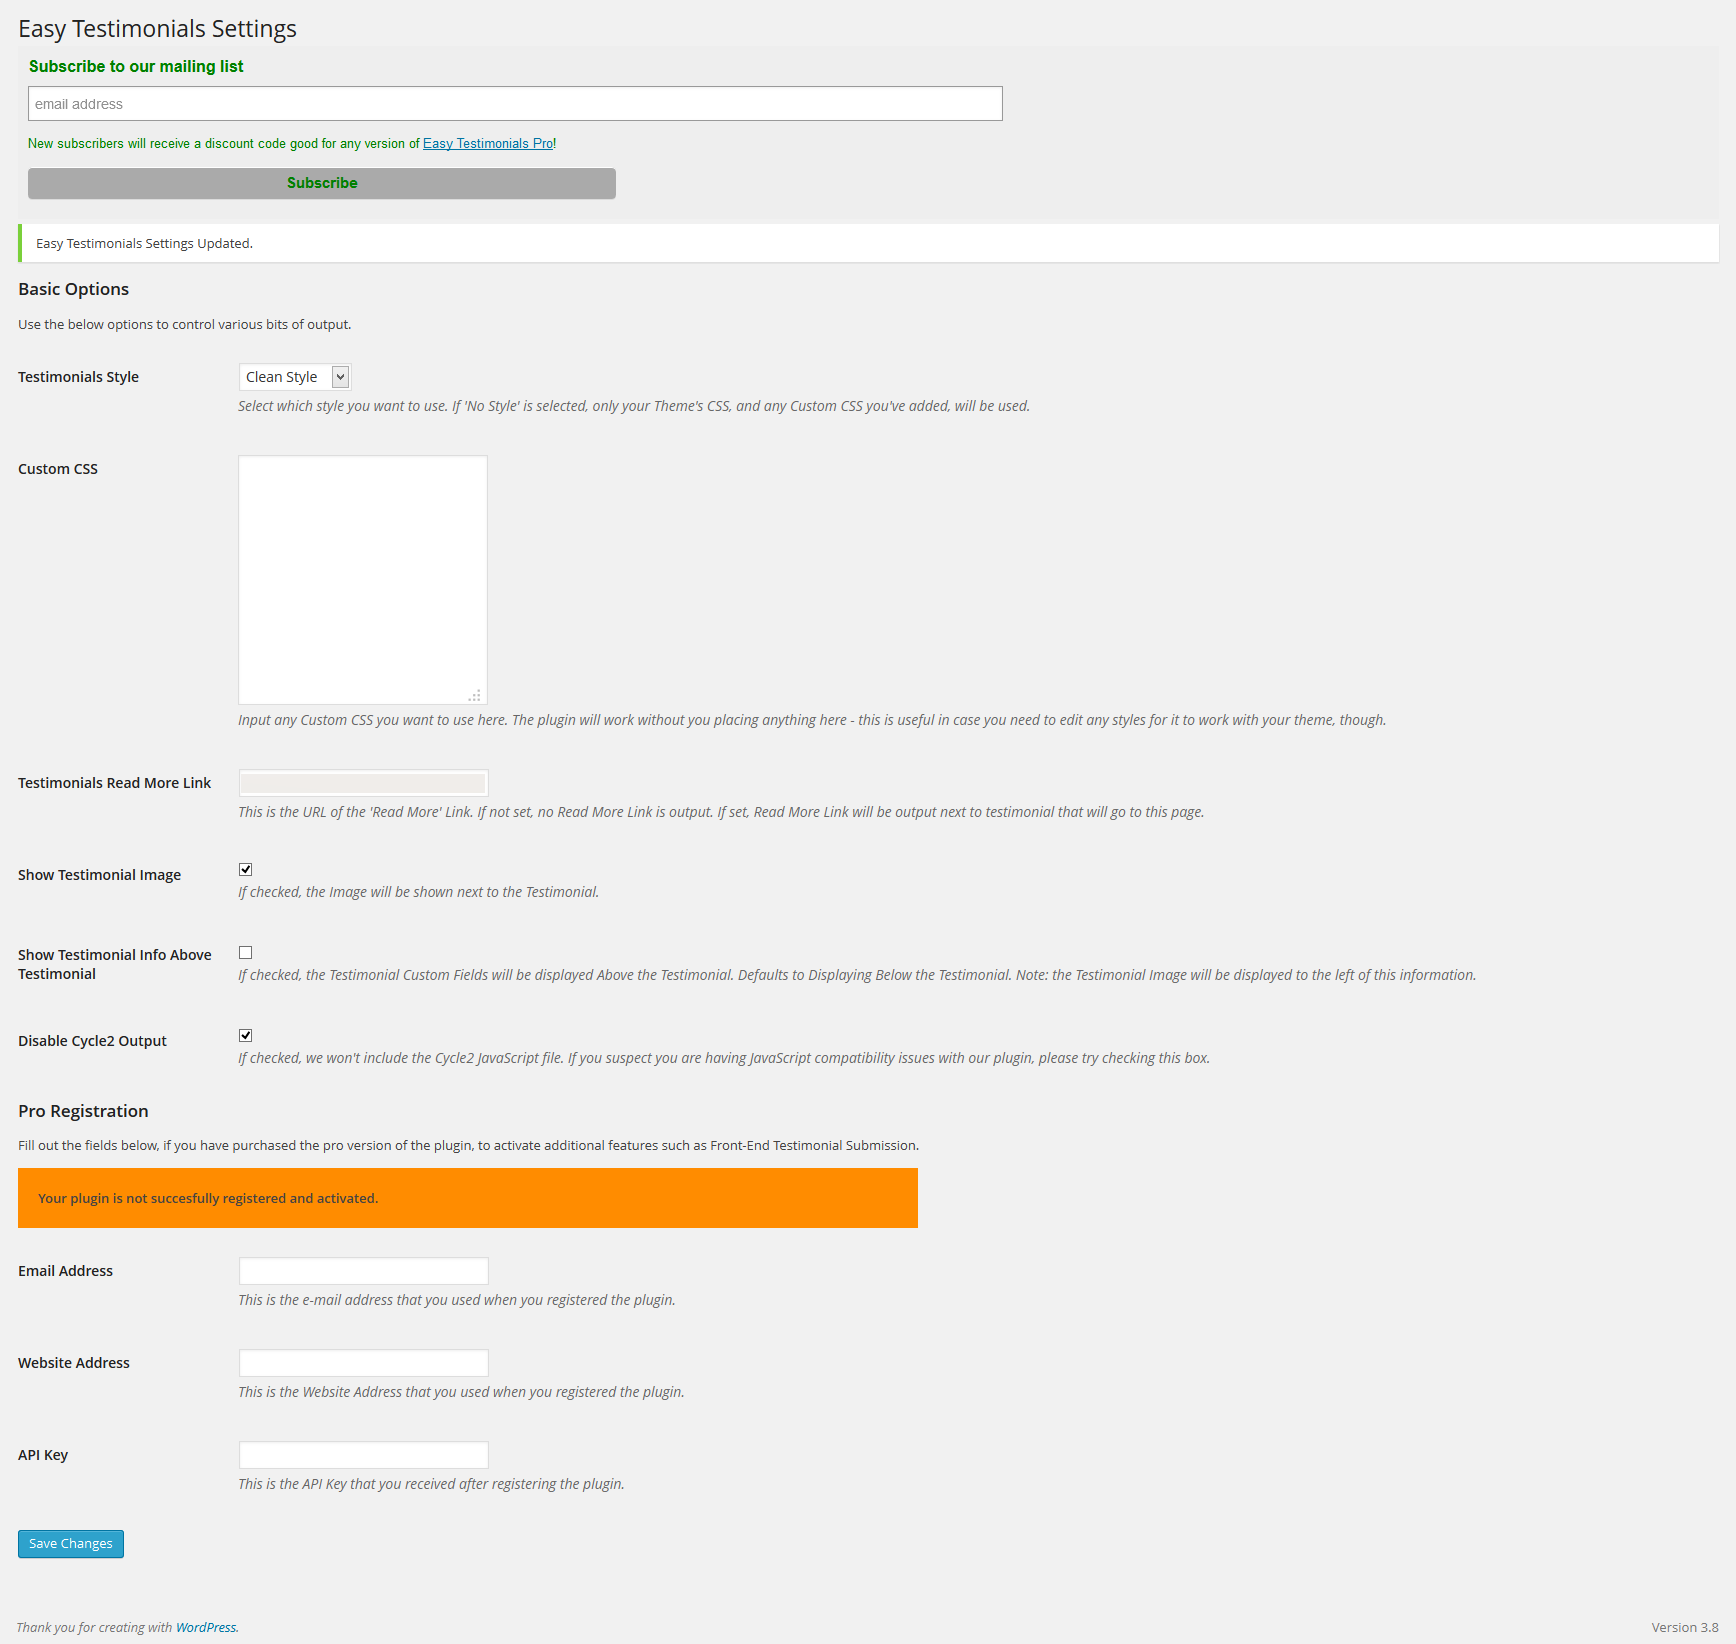
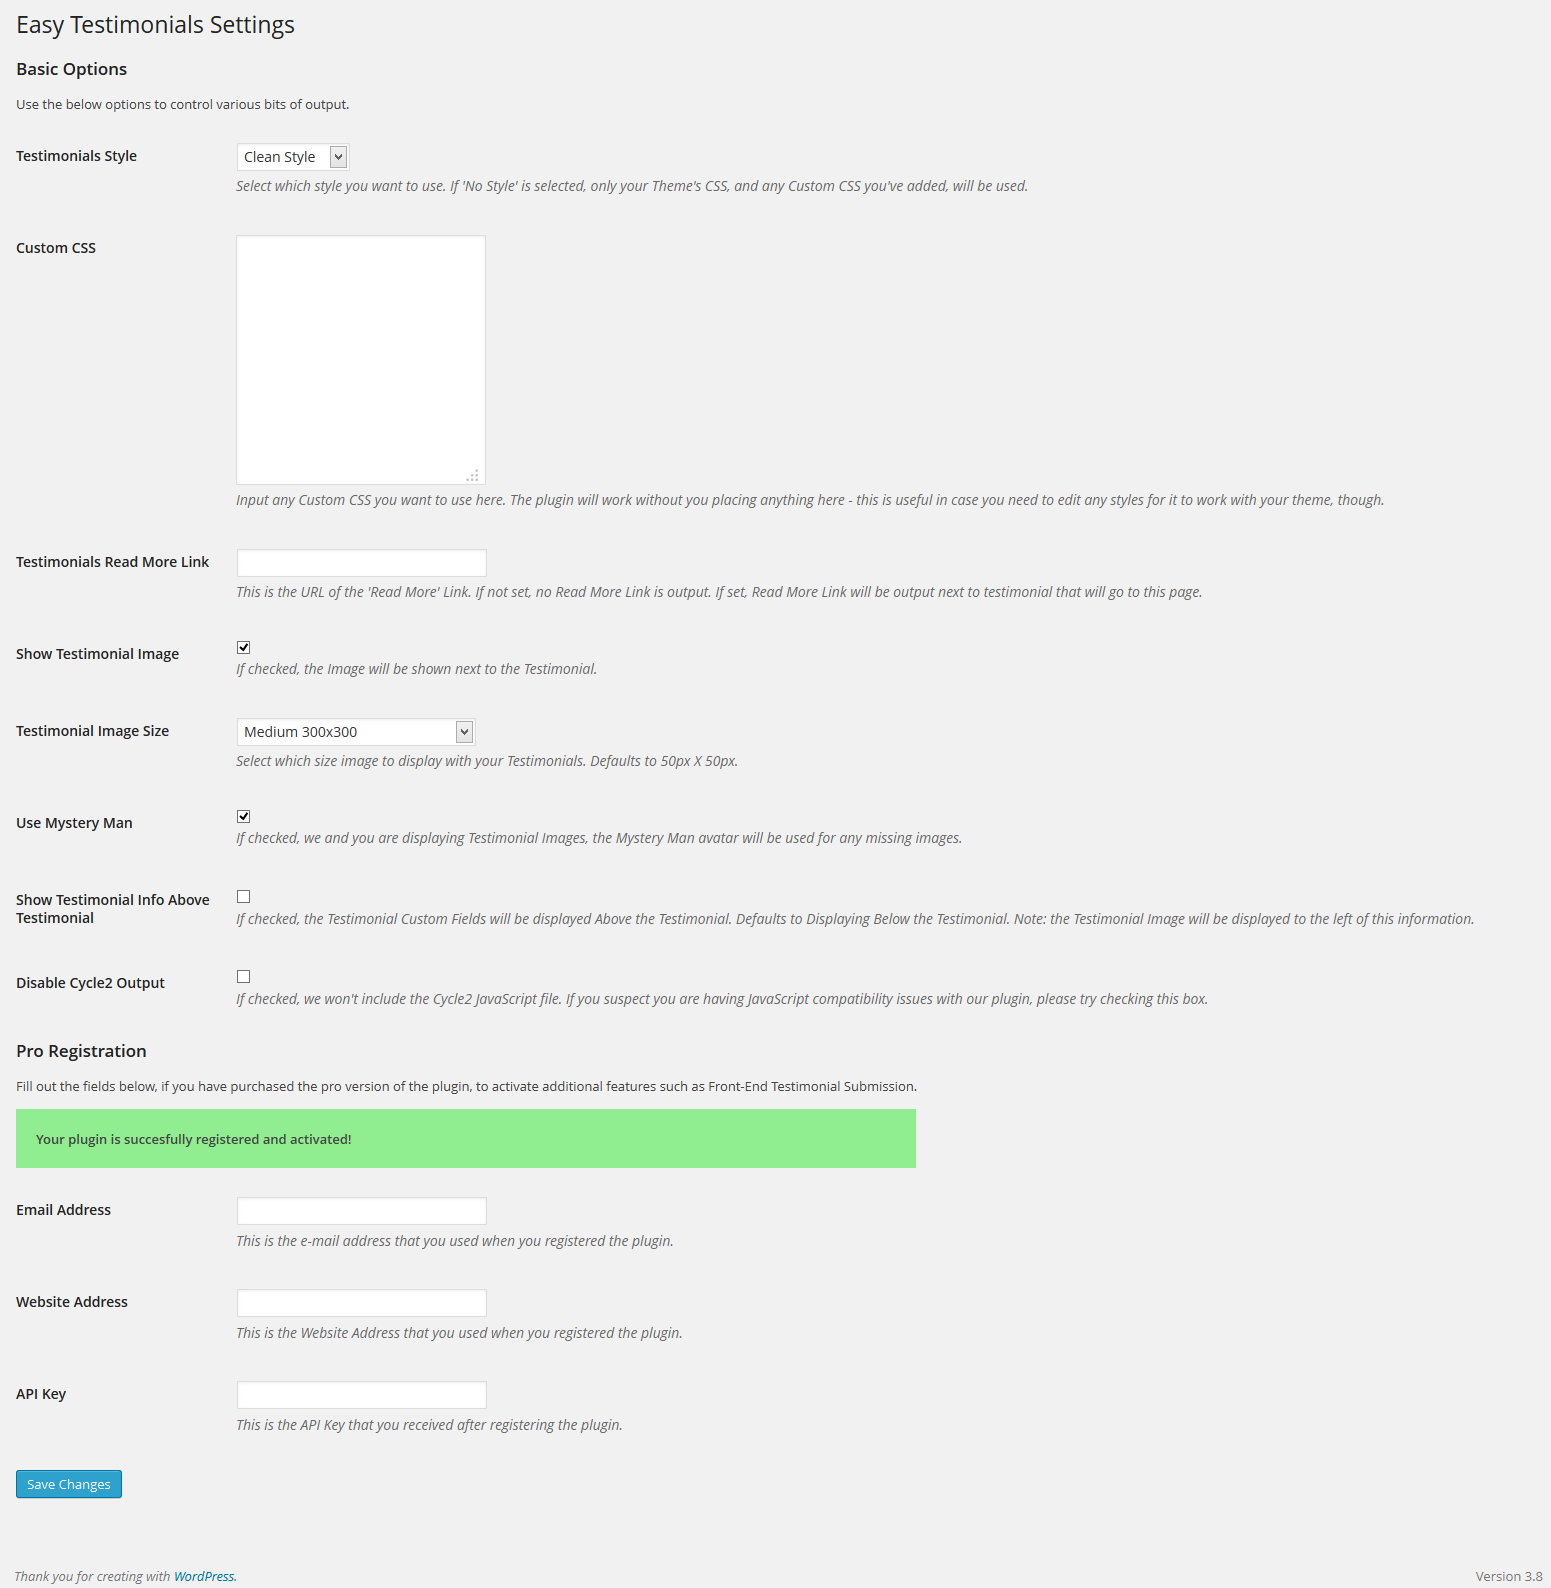
Adds ability to control the size of the Testimonial image
git-svn-id: https://plugins.svn.wordpress.org/easy-testimonials/trunk@835733 b8457f37-d9ea-0310-8a92-e5e31aec5664

diff --git a/include/css/clean_style.css b/include/css/clean_style.css
@@ -1,8 +1,8 @@
 /* CSS */
 blockquote.easy_testimonial {
     margin: 10px auto;
-    padding: 10px 10px 10px 80px;
-    position: relative;
+    min-height: 80px;
+    padding: 10px;
 }
 
 blockquote.easy_testimonial p{
@@ -18,15 +18,13 @@ blockquote.easy_testimonial p a:hover{
 blockquote.easy_testimonial cite{
 }
 
-.randomTestimonialWidget blockquote.easy_testimonial {
-    margin: 5px auto;
-    padding-left: 64px;
-}
-
 .attachment-easy_testimonial_thumb{
-  display: block;
   width: 60px;
   height: 60px;
+}
+
+.wp-post-image{
+  display: block;
   margin: 1em auto;
   background-size: cover;
   background-repeat: no-repeat;
@@ -43,11 +41,9 @@ blockquote.easy_testimonial cite{
     width: 44px;
 }
 
-body blockquote.easy_testimonial .attachment-easy_testimonial_thumb {
-    left: 0;
-    margin: 0 15px 10px 0;
-    position: absolute;
-    width: 60px;
+body blockquote.easy_testimonial .wp-post-image{
+    float: left;
+    margin: 0 10px 10px 0;
 }
 
 .cycle-slideshow{

diff --git a/include/css/style.css b/include/css/style.css
@@ -1,10 +1,11 @@
 /* CSS */
-blockquote.easy_testimonial{
+blockquote.easy_testimonial {
+    margin: 10px auto;
+    min-height: 80px;
     padding: 10px;
-	margin: 10px auto;
 }
 
-blockquote.easy_testimonial .attachment-easy_testimonial_thumb{
+blockquote.easy_testimonial .wp-post-image{
     border-radius: 5px 5px 5px 5px;
     float: left;
     margin: 0 10px 10px 0;

diff --git a/include/css/light_style.css b/include/css/light_style.css
@@ -8,7 +8,7 @@ blockquote.easy_testimonial{
 	margin: 10px auto;
 }
 
-blockquote.easy_testimonial .attachment-easy_testimonial_thumb{
+blockquote.easy_testimonial .wp-post-image{
 	border: 1px solid #CCCCCC;
     border-radius: 5px 5px 5px 5px;
     float: left;

diff --git a/include/css/dark_style.css b/include/css/dark_style.css
@@ -8,7 +8,7 @@ blockquote.easy_testimonial{
 	margin: 10px auto;
 }
 
-blockquote.easy_testimonial .attachment-easy_testimonial_thumb{
+blockquote.easy_testimonial .wp-post-image{
 	border: 1px solid black;
     border-radius: 5px 5px 5px 5px;
     float: left;

diff --git a/easy-testimonials.php b/easy-testimonials.php
@@ -4,7 +4,7 @@ Plugin Name: Easy Testimonials
 Plugin URI: http://easy-testimonials.com
 Description: Easy Testimonials - Provides custom post type, shortcode, sidebar widget, and other functionality for testimonials.
 Author: Illuminati Karate
-Version: 1.5.7
+Version: 1.5.8
 Author URI: http://illuminatikarate.com
 
 This file is part of Easy Testimonials.
@@ -231,6 +231,42 @@ function easy_testimonials_setup_testimonials(){
 	
 	add_image_size( 'easy_testimonial_thumb', 50, 50, true );
 }
+
+//from http://codex.wordpress.org/Function_Reference/get_intermediate_image_sizes
+function easy_t_output_image_options(){
+	global $_wp_additional_image_sizes;
+	$sizes = array();
+	foreach( get_intermediate_image_sizes() as $s ){
+		$sizes[ $s ] = array( 0, 0 );
+		if( in_array( $s, array( 'thumbnail', 'medium', 'large' ) ) ){
+			$sizes[ $s ][0] = get_option( $s . '_size_w' );
+			$sizes[ $s ][1] = get_option( $s . '_size_h' );
+		}else{
+			if( isset( $_wp_additional_image_sizes ) && isset( $_wp_additional_image_sizes[ $s ] ) )
+				$sizes[ $s ] = array( $_wp_additional_image_sizes[ $s ]['width'], $_wp_additional_image_sizes[ $s ]['height'], );
+		}
+	}
+
+	$current_size = get_option('easy_t_image_size');
+	
+	foreach( $sizes as $size => $atts ){
+		$disabled = '';
+		$selected = '';
+		$register = '';
+		
+		if(!isValidKey()){
+			$disabled = 'disabled="DISABLED"';
+			$current_size = 'easy_testimonial_thumb';
+			$register = " - Register to Enable!";
+		}
+		if($current_size == $size){
+			$selected = 'selected="SELECTED"';
+			$disabled = '';
+			$register = '';
+		}
+		echo "<option value='".$size."' ".$disabled . " " . $selected.">" . ucwords(str_replace("-", " ", str_replace("_", " ", $size))) . ' ' . implode( 'x', $atts ) . $register . "</option>";
+	}
+}
  
 //this is the heading of the new column we're adding to the testimonial posts list
 function easy_t_column_head($defaults) {  
@@ -294,7 +330,12 @@ function outputRandomTestimonial($atts){
 		}
 		
 		if ($show_thumbs) {
-			$testimonials[$i]['image'] = get_the_post_thumbnail($postid, 'easy_testimonial_thumb');
+			$testimonial_image_size = isValidKey() ? get_option('easy_t_image_size') : "easy_testimonial_thumb";
+			if(strlen($testimonial_image_size) < 2){
+				$testimonial_image_size = "easy_testimonial_thumb";
+			}
+			
+			$testimonials[$i]['image'] = get_the_post_thumbnail($postid, $testimonial_image_size);
 			if (strlen($testimonials[$i]['image']) < 2 && get_option('easy_t_mystery_man')){
 				$testimonials[$i]['image'] = '<img class="attachment-easy_testimonial_thumb wp-post-image" src="' . plugins_url('include/css/mystery_man.png', __FILE__) . '" />';
 			}
@@ -408,8 +449,13 @@ function outputSingleTestimonial($atts){
 			}
 		}
 		
-		if ($show_thumbs) {
-			$testimonial['image'] = get_the_post_thumbnail($postid, 'easy_testimonial_thumb');
+		if ($show_thumbs) {		
+			$testimonial_image_size = isValidKey() ? get_option('easy_t_image_size') : "easy_testimonial_thumb";
+			if(strlen($testimonial_image_size) < 2){
+				$testimonial_image_size = "easy_testimonial_thumb";
+			}
+			
+			$testimonial['image'] = get_the_post_thumbnail($postid, $testimonial_image_size);
 			if (strlen($testimonial['image']) < 2 && get_option('easy_t_mystery_man')){
 				$testimonial['image'] = '<img class="attachment-easy_testimonial_thumb wp-post-image" src="' . plugins_url('include/css/mystery_man.png', __FILE__) . '" />';
 			}
@@ -499,8 +545,13 @@ function outputTestimonials($atts){
 			}
 		}
 		
-		if ($show_thumbs) {
-			$testimonial['image'] = get_the_post_thumbnail($postid, 'easy_testimonial_thumb');
+		if ($show_thumbs) {		
+			$testimonial_image_size = isValidKey() ? get_option('easy_t_image_size') : "easy_testimonial_thumb";
+			if(strlen($testimonial_image_size) < 2){
+				$testimonial_image_size = "easy_testimonial_thumb";
+			}
+		
+			$testimonial['image'] = get_the_post_thumbnail($postid, $testimonial_image_size);
 			if (strlen($testimonial['image']) < 2 && get_option('easy_t_mystery_man')){
 				$testimonial['image'] = '<img class="attachment-easy_testimonial_thumb wp-post-image" src="' . plugins_url('include/css/mystery_man.png', __FILE__) . '" />';
 			}
@@ -596,8 +647,13 @@ function outputTestimonialsCycle($atts){
 			$testimonial['content'] = get_the_content();
 		}
 		
-		if ($show_thumbs) {
-			$testimonial['image'] = get_the_post_thumbnail($postid, 'easy_testimonial_thumb');
+		if ($show_thumbs) {		
+			$testimonial_image_size = isValidKey() ? get_option('easy_t_image_size') : "easy_testimonial_thumb";
+			if(strlen($testimonial_image_size) < 2){
+				$testimonial_image_size = "easy_testimonial_thumb";
+			}
+		
+			$testimonial['image'] = get_the_post_thumbnail($postid, $testimonial_image_size);
 			if (strlen($testimonial['image']) < 2 && get_option('easy_t_mystery_man')){
 				$testimonial['image'] = '<img class="attachment-easy_testimonial_thumb wp-post-image" src="' . plugins_url('include/css/mystery_man.png', __FILE__) . '" />';
 			}

diff --git a/include/easy_testimonial_options.php b/include/easy_testimonial_options.php
@@ -47,12 +47,13 @@ class easyTestimonialOptions
 		register_setting( 'easy-testimonials-settings-group', 'easy_t_custom_css' );
 		register_setting( 'easy-testimonials-settings-group', 'easy_t_disable_cycle2' );
 		register_setting( 'easy-testimonials-settings-group', 'easy_t_mystery_man' );
+		register_setting( 'easy-testimonials-settings-group', 'easy_t_image_size' );
 		
 		register_setting( 'easy-testimonials-settings-group', 'easy_t_registered_name' );
 		register_setting( 'easy-testimonials-settings-group', 'easy_t_registered_url' );
 		register_setting( 'easy-testimonials-settings-group', 'easy_t_registered_key' );
 	}
-
+	
 	function settings_page(){
 		$title = "Easy Testimonials Settings";
 		$message = "Easy Testimonials Settings Updated.";
@@ -133,6 +134,18 @@ class easyTestimonialOptions
 					<th scope="row"><label for="testimonials_image">Show Testimonial Image</label></th>
 					<td><input type="checkbox" name="testimonials_image" id="testimonials_image" value="1" <?php if(get_option('testimonials_image')){ ?> checked="CHECKED" <?php } ?>/>
 					<p class="description">If checked, the Image will be shown next to the Testimonial.</p>
+					</td>
+				</tr>
+			</table>
+			
+			<table class="form-table">
+				<tr valign="top">
+					<th scope="row"><label for="easy_t_image_size">Testimonial Image Size</a></th>
+					<td>
+						<select name="easy_t_image_size" id="easy_t_image_size">	
+							<?php easy_t_output_image_options(); ?>
+						</select>
+						<p class="description">Select which size image to display with your Testimonials.  Defaults to 50px X 50px.</p>
 					</td>
 				</tr>
 			</table>
